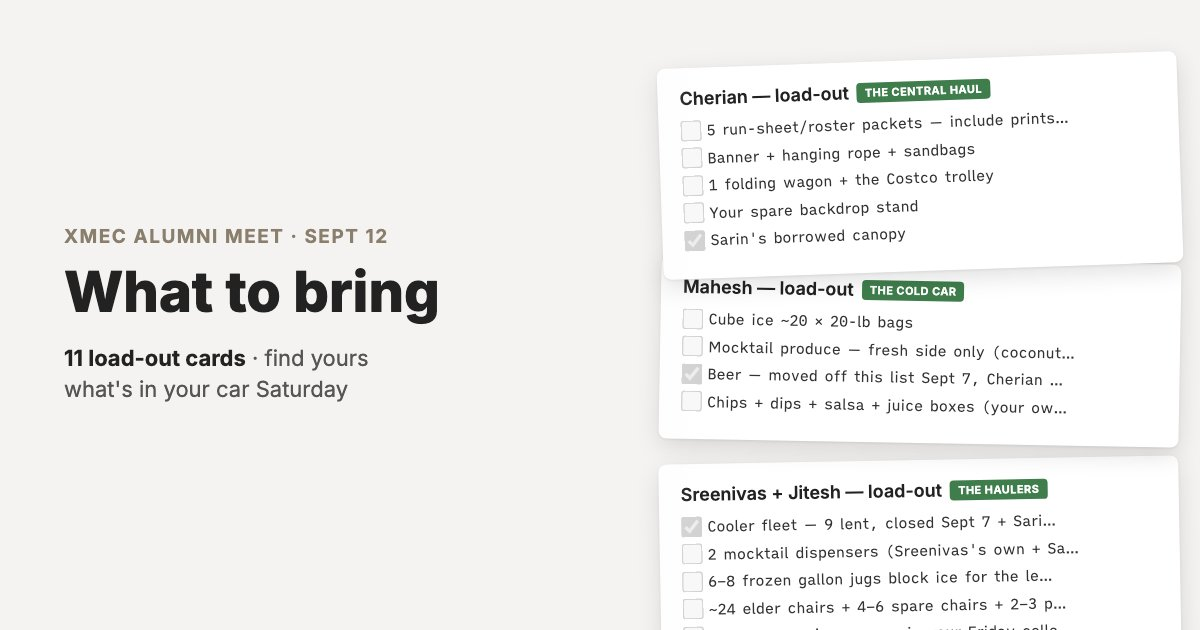
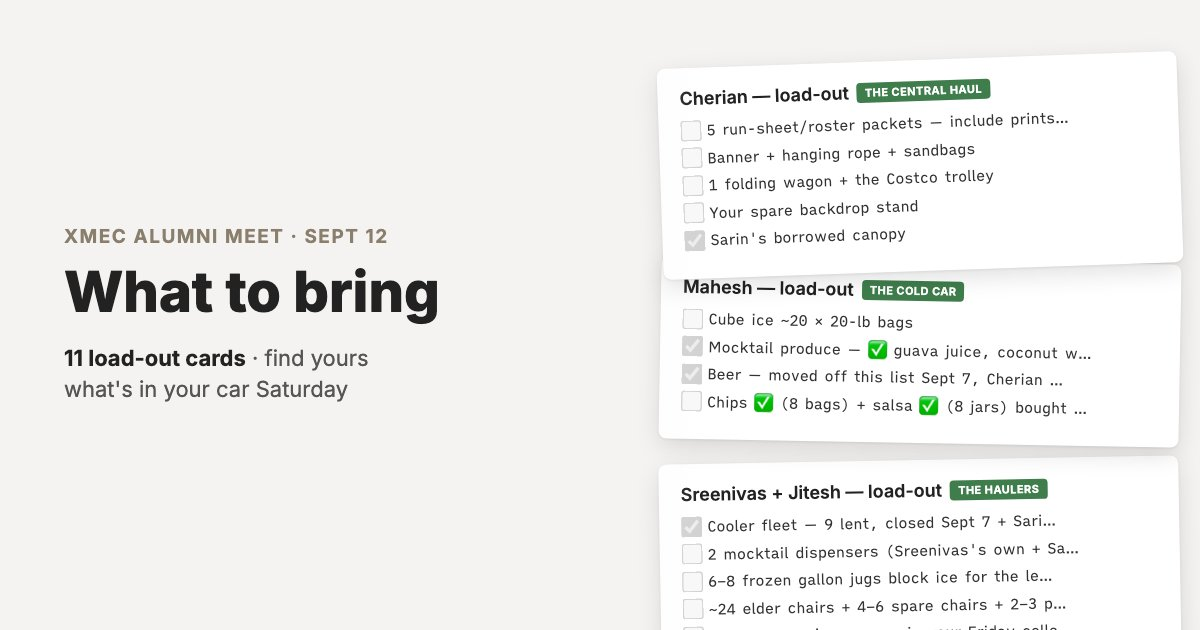
publish: roles.html og-roles.jpg (build af21194030)

Changed region(s): [[0.6167, 0.6032, 0.8942, 0.6635], [0.7092, 0.5429, 0.8942, 0.573], [0.555, 0.5127, 0.5858, 0.573]]

diff --git a/roles.html b/roles.html
@@ -935,6 +935,7 @@
         .badge.walmart   { background: #0071ce; color: #fff; }
         .badge.covered   { background: #7c3aed; color: #fff; }
         .badge.amazon    { background: #ff9900; color: #111; }
+        .badge.other     { background: #4b5563; color: #fff; }
         .cheaper-line    { color: #2a8c4a; font-weight: 600; }
 
         .tag {
@@ -2650,8 +2651,8 @@
 <header style="padding:2rem 1.25rem 0">
 <p class="small" style="text-transform:uppercase;letter-spacing:.06em;color:var(--stone-500,#8a7f6d)">xMEC Alumni Meet · Sept 12</p>
 <h1 style="margin:.25rem 0 .5rem">What to bring</h1>
-<p class="small">Boxes don't tick on this page — screenshot your card and tick on paper. Updated Fri, Sep 11, 9:08 PM.</p>
-<p class="small" style="opacity:.6">11 cards · build 0f8666c03b</p>
+<p class="small">Boxes don't tick on this page — screenshot your card and tick on paper. Updated Fri, Sep 11, 9:30 PM.</p>
+<p class="small" style="opacity:.6">11 cards · build af21194030</p>
 </header>
 <section id="loadout">
 <h2>What to bring — per-person load-out</h2>
@@ -2702,9 +2703,9 @@
         <p class="small"><strong>In your car — Saturday:</strong></p>
         <ul class="checklist">
             <li><label><input tabindex="-1" onclick="return false" type="checkbox"> Cube ice ~20 × 20-lb bags</label></li>
-            <li><label><input tabindex="-1" onclick="return false" type="checkbox"> Mocktail produce — <strong>fresh side only</strong> (coconut water, coconut milk, pineapple, citrus + mint garnish). <strong>Bases + roaster pans already bought by Jitesh Sept 11 (row #25) — do not re-buy</strong></label></li>
+            <li><label><input tabindex="-1" onclick="return false" type="checkbox" checked> Mocktail produce — ✅ guava juice, coconut water ×2, pineapple ×9 bought (rows #27–28). <strong>Still to get: coconut milk + fresh citrus/mint garnish.</strong> Bases + roaster pans are Jitesh's (row #25) — don't re-buy</label></li>
             <li><label><input tabindex="-1" onclick="return false" type="checkbox" checked disabled> Beer — moved off this list Sept 7, Cherian bought + stored 168 cans Sept 8</label></li>
-            <li><label><input tabindex="-1" onclick="return false" type="checkbox"> Chips + dips + salsa + juice boxes (your own buy, Aug 22)</label></li>
+            <li><label><input tabindex="-1" onclick="return false" type="checkbox"> Chips ✅ (8 bags) + salsa ✅ (8 jars) bought at Costco Sept 10 — <strong>dips and juice boxes are still open</strong></label></li>
         </ul>
         <p class="small"><strong>Friday pack night:</strong> collects Sreenivas's cooler + dispenser and Kevin's cooler. <strong>Ice cream is off Mahesh's pack night entirely Sept 7 — Jitesh buys it same-day.</strong> Test the 2 borrowed dispensers for leaks.</p>
         <p class="small"><strong>Not yours:</strong> the cooler fleet + dispensers (Sreenivas + Jitesh haul — you only count them); <strong>the steel gallon jar you mix in — Cherian brings it Saturday</strong> (Sept 11, his own — don't buy one).</p>
